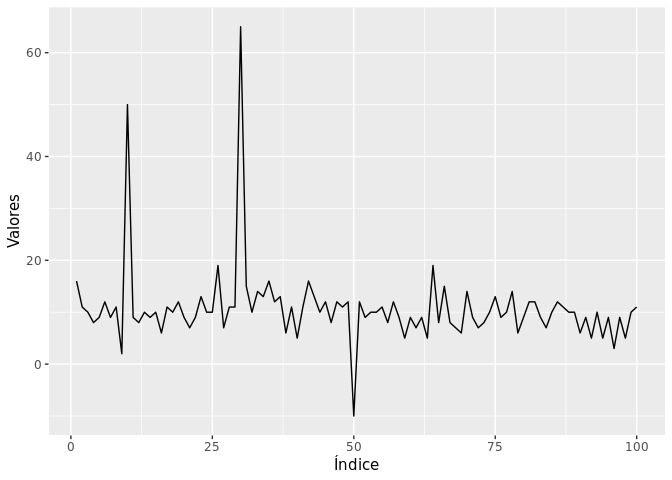
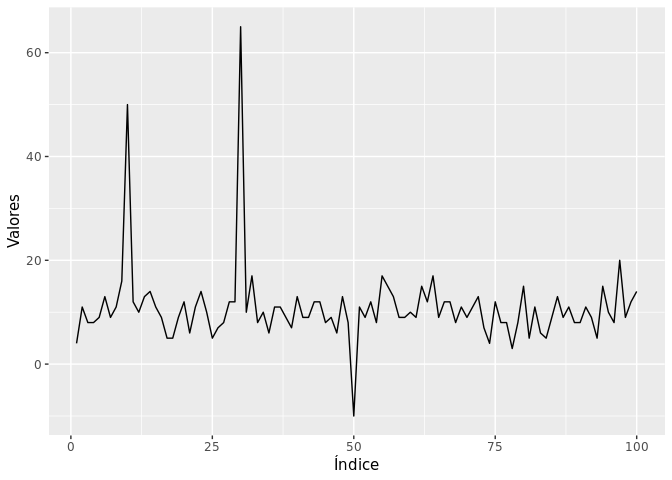
# update .rmd

Changed region(s): [[0.0938, 0.4062, 0.9688, 0.8125], [0.1875, 0.3125, 0.2188, 0.4062], [0.3438, 0.3125, 0.375, 0.375]]

diff --git a/README.md b/README.md
@@ -2,8 +2,8 @@
 DDME - Repositório de funções do R úteis para o dia a dia
 =========================================================
 
-1 inspeciona\_outlier()
------------------------
+1 `insp_outlier()`
+------------------
 
 Função base criada por Gabriel Motta, útil para detecção de outliers em séries temporais com base no pacote `anomalize`. As opções de uso são:
 
@@ -24,18 +24,18 @@ Vetor sem data guardado em `x`:
 O resultado da chamada é um objeto `data.table`. Note que a coluna `DATA` é criada arbitrariamente e nem faz sentido, já que o objeto inicial não possui referências temporais.
 
 ``` r
-x_alterado <- inspeciona_outlier(x)
+x_alterado <- insp_outlier(as.ts(x))
 x_alterado[49:55]
 ```
 
     ##        DATA SERIE SERIE_IMPUTADA FLAG_OUTLIER
-    ## 1: 49-01-01    12             12            0
-    ## 2: 50-01-01   -10             11            1
-    ## 3: 51-01-01    12             12            0
+    ## 1: 49-01-01     8              8            0
+    ## 2: 50-01-01   -10              9            1
+    ## 3: 51-01-01    11             11            0
     ## 4: 52-01-01     9              9            0
-    ## 5: 53-01-01    10             10            0
-    ## 6: 54-01-01    10             10            0
-    ## 7: 55-01-01    11             11            0
+    ## 5: 53-01-01    12             12            0
+    ## 6: 54-01-01     8              8            0
+    ## 7: 55-01-01    17             17            0
 
 ``` r
 x_alterado %>% 
@@ -61,50 +61,50 @@ Exemplo para tabelas com séries nas linhas:
 d1[,1:10]
 ```
 
-    ##    ID      V1      V2      V3       V4       V5       V6       V7       V8
-    ## 1:  1 16.0000 11.0000 10.0000 8.000000 9.000000 12.00000 9.000000 11.00000
-    ## 2:  2 15.6993 11.3389 11.4841 8.593408 9.579619 10.32584 8.899792 11.96684
+    ##    ID     V1       V2       V3       V4      V5       V6       V7       V8
+    ## 1:  1 4.0000 11.00000 8.000000 8.000000 9.00000 13.00000  9.00000 11.00000
+    ## 2:  2 2.9536 11.16443 7.447412 7.280833 8.57448 12.42751 10.40168 10.74901
     ##          V9
-    ## 1: 2.000000
-    ## 2: 2.148456
+    ## 1: 16.00000
+    ## 2: 14.82211
 
 ``` r
 # Formato de saída "wide"
-inspeciona_outlier(d1, sentido = 1) %>% 
+insp_outlier(d1, sentido = 1) %>% 
   dplyr::sample_n(10) %>% 
   {.[order(ID,PERIODO)]}
 ```
 
     ##     ID PERIODO     SERIE SERIE_IMPUTADA FLAG_OUTLIER
-    ##  1:  1     V16  6.000000       6.000000            0
-    ##  2:  1     V17 11.000000      11.000000            0
-    ##  3:  1     V40  5.000000      11.000000            1
-    ##  4:  1     V63  5.000000       5.000000            0
-    ##  5:  1     V66 15.000000      15.000000            0
-    ##  6:  2     V11  9.000303       9.000303            0
-    ##  7:  2     V68  7.763033       7.763033            0
-    ##  8:  2     V69  5.531005       5.531005            0
-    ##  9:  2     V74  9.669374       9.669374            0
-    ## 10:  2     V95  8.145249       8.145249            0
+    ##  1:  1     V13 13.000000      13.000000            0
+    ##  2:  1     V19  9.000000       9.000000            0
+    ##  3:  1     V34 10.000000      10.000000            0
+    ##  4:  1     V73  7.000000       7.000000            0
+    ##  5:  1     V84  5.000000       5.000000            0
+    ##  6:  2     V15  9.357883       9.357883            0
+    ##  7:  2     V43 11.851474      11.851474            0
+    ##  8:  2     V92  8.533175       8.533175            0
+    ##  9:  2     V95  9.674963       9.674963            0
+    ## 10:  2     V99 11.938894      11.938894            0
 
 ``` r
 # Formato de saída "long"
-inspeciona_outlier(d1, sentido = 1, out_format = "long") %>% 
+insp_outlier(d1, sentido = 1, out_format = "long") %>% 
   dplyr::sample_n(10) %>% 
   {.[order(ID,PERIODO)]}
 ```
 
     ##     ID PERIODO FLAG_OUTLIER IMPUTADA     VALOR
-    ##  1:  1     V12            0        0  8.000000
-    ##  2:  1     V27            0        1  7.000000
-    ##  3:  1     V41            0        0 11.000000
-    ##  4:  1      V5            0        0  9.000000
-    ##  5:  1     V70            0        1 14.000000
-    ##  6:  1     V85            0        1 10.000000
-    ##  7:  2     V10            1        0 49.646305
-    ##  8:  2    V100            0        1 12.555860
-    ##  9:  2     V38            0        0  6.668038
-    ## 10:  2     V82            0        1 13.603500
+    ##  1:  1     V15            0        0 11.000000
+    ##  2:  1     V93            0        1  5.000000
+    ##  3:  1     V95            0        0 10.000000
+    ##  4:  2     V38            0        1  9.482080
+    ##  5:  2     V43            0        0 11.851474
+    ##  6:  2      V5            0        1  8.574480
+    ##  7:  2      V6            0        1 12.427514
+    ##  8:  2     V65            0        1  8.882865
+    ##  9:  2     V73            0        1  6.786626
+    ## 10:  2     V95            0        1  9.674963
 
 #### Séries nas colunas
 
@@ -114,54 +114,54 @@ Exemplo para tableas com séries nas colunas:
 d2[1:5]
 ```
 
-    ##          DATA SERIE1   SERIE2
-    ## 1: 2018-01-01     16  -0.0332
-    ## 2: 2018-01-02     11 -28.3779
-    ## 3: 2018-01-03     10  -2.1060
-    ## 4: 2018-01-04      8  -3.4990
-    ## 5: 2018-01-05      9   0.6313
+    ##          DATA SERIE1  SERIE2
+    ## 1: 2018-01-01      4 -2.1965
+    ## 2: 2018-01-02     11  1.0265
+    ## 3: 2018-01-03      8  0.9019
+    ## 4: 2018-01-04      8  4.7961
+    ## 5: 2018-01-05      9 -0.5567
 
 ``` r
 # Formato de saída "wide"
-inspeciona_outlier(d2, sentido = 2) %>% head()
+insp_outlier(d2, sentido = 2) %>% head()
 ```
 
-    ##          DATA SERIE1 SERIE1_IMPUTADA SERIE1_FLAG_OUTLIER   SERIE2
-    ## 1: 2018-01-01     16              16                   0  -0.0332
-    ## 2: 2018-01-02     11              11                   0 -28.3779
-    ## 3: 2018-01-03     10              10                   0  -2.1060
-    ## 4: 2018-01-04      8               8                   0  -3.4990
-    ## 5: 2018-01-05      9               9                   0   0.6313
-    ## 6: 2018-01-06     12              12                   0  -0.3722
+    ##          DATA SERIE1 SERIE1_IMPUTADA SERIE1_FLAG_OUTLIER  SERIE2
+    ## 1: 2018-01-01      4               4                   0 -2.1965
+    ## 2: 2018-01-02     11              11                   0  1.0265
+    ## 3: 2018-01-03      8               8                   0  0.9019
+    ## 4: 2018-01-04      8               8                   0  4.7961
+    ## 5: 2018-01-05      9               9                   0 -0.5567
+    ## 6: 2018-01-06     13              13                   0 -5.3792
     ##    SERIE2_IMPUTADA SERIE2_FLAG_OUTLIER
-    ## 1:         -0.0332                   0
-    ## 2:         -2.1060                   1
-    ## 3:         -2.1060                   0
-    ## 4:         -3.4990                   0
-    ## 5:          0.6313                   0
-    ## 6:         -0.3722                   0
+    ## 1:         -2.1965                   0
+    ## 2:          1.0265                   0
+    ## 3:          0.9019                   0
+    ## 4:         -0.5567                   1
+    ## 5:         -0.5567                   0
+    ## 6:         -0.2819                   1
 
 ``` r
 # Formato de saída "long"
-inspeciona_outlier(d2, sentido = 2, out_format = "long") %>% 
+insp_outlier(d2, sentido = 2, out_format = "long") %>% 
   dplyr::sample_n(10) %>% 
   {.[order(SERIE,DATA)]}
 ```
 
     ##           DATA  SERIE FLAG_OUTLIER IMPUTADA   VALOR
-    ##  1: 2018-01-05 SERIE1            0        1  9.0000
-    ##  2: 2018-01-13 SERIE1            0        0 10.0000
-    ##  3: 2018-02-08 SERIE1            0        1 11.0000
-    ##  4: 2018-02-23 SERIE1            0        0 10.0000
-    ##  5: 2018-04-09 SERIE1            0        0 10.0000
-    ##  6: 2018-01-22 SERIE2            0        0  1.1284
-    ##  7: 2018-01-23 SERIE2            1        1  0.4391
-    ##  8: 2018-02-08 SERIE2            0        1 -1.0719
-    ##  9: 2018-03-21 SERIE2            0        1  0.0608
-    ## 10: 2018-03-27 SERIE2            0        1  0.6664
+    ##  1: 2018-01-11 SERIE1            0        1 12.0000
+    ##  2: 2018-02-01 SERIE1            0        1 17.0000
+    ##  3: 2018-01-11 SERIE2            0        1  0.1078
+    ##  4: 2018-01-26 SERIE2            0        1 -1.1355
+    ##  5: 2018-01-31 SERIE2            1        0  3.7590
+    ##  6: 2018-02-11 SERIE2            0        0  0.0671
+    ##  7: 2018-02-15 SERIE2            0        1 -1.1553
+    ##  8: 2018-02-20 SERIE2            1        0 -6.1171
+    ##  9: 2018-03-09 SERIE2            1        0  9.6009
+    ## 10: 2018-04-07 SERIE2            0        0 -0.1103
 
-2 na\_prop()
-------------
+2 `na_prop()`
+-------------
 
 Função para checar proporção de valores faltantes num `data.table` com variáveis nas colunas.
 
@@ -200,3 +200,70 @@ dados %>% na_prop(corte = 0.1)
 
     ##    VARIAVEL N_MISSING N_TOTAL PROPORCAO_NA
     ## 1:    Ozone        37     153    0.2418301
+
+3 Substituição de valores com `subs_any()` e `subs_na()`
+--------------------------------------------------------
+
+### `subs_na()`
+
+Função para substituição de NA em diversas variáveis de uma tabela. Os valores a substituir são especificados pelo nome das colunas na forma `subs_na(dados, col_1 = "?", col_2 = 999)` ou `subs_na(dados, list(col_1 = "?", col_2 = 999))`.
+
+``` r
+dados %>% 
+  subs_na(Ozone = 999, Solar.R = 999)
+```
+
+    ##      Ozone Solar.R Wind Temp Month Day
+    ##   1:    41     190  7.4   67     5   1
+    ##   2:    36     118  8.0   72     5   2
+    ##   3:    12     149 12.6   74     5   3
+    ##   4:    18     313 11.5   62     5   4
+    ##   5:   999     999 14.3   56     5   5
+    ##  ---                                  
+    ## 149:    30     193  6.9   70     9  26
+    ## 150:   999     145 13.2   77     9  27
+    ## 151:    14     191 14.3   75     9  28
+    ## 152:    18     131  8.0   76     9  29
+    ## 153:    20     223 11.5   68     9  30
+
+É possível também usar expressões regulares para substituição em múltiplas colunas por valor comum:
+
+``` r
+# Substitui NA por 999 nas colunas que contém "." no nome.
+dados %>% subs_na("\\." = 999)
+```
+
+    ##      Ozone Solar.R Wind Temp Month Day
+    ##   1:    41     190  7.4   67     5   1
+    ##   2:    36     118  8.0   72     5   2
+    ##   3:    12     149 12.6   74     5   3
+    ##   4:    18     313 11.5   62     5   4
+    ##   5:    NA     999 14.3   56     5   5
+    ##  ---                                  
+    ## 149:    30     193  6.9   70     9  26
+    ## 150:    NA     145 13.2   77     9  27
+    ## 151:    14     191 14.3   75     9  28
+    ## 152:    18     131  8.0   76     9  29
+    ## 153:    20     223 11.5   68     9  30
+
+### `subs_any()`
+
+Substituição de qualquer valor `x` para qualquer valor `y` dentro de variáveis de tabela. A sintaxe se torna `subs_any(dados, col_1 = list(<valor>, <input>), col_2 = list(<valor>, <input>))`. Como em `subs_na()`, é possível referenciar mudanças para múltiplas colunas por expressão regular.
+
+``` r
+dados %>% 
+  subs_any(Ozone = list(41, 10000), "\\." = list(190, 10000))
+```
+
+    ##      Ozone Solar.R Wind Temp Month Day
+    ##   1: 10000   10000  7.4   67     5   1
+    ##   2:    36     118  8.0   72     5   2
+    ##   3:    12     149 12.6   74     5   3
+    ##   4:    18     313 11.5   62     5   4
+    ##   5:    NA      NA 14.3   56     5   5
+    ##  ---                                  
+    ## 149:    30     193  6.9   70     9  26
+    ## 150:    NA     145 13.2   77     9  27
+    ## 151:    14     191 14.3   75     9  28
+    ## 152:    18     131  8.0   76     9  29
+    ## 153:    20     223 11.5   68     9  30
